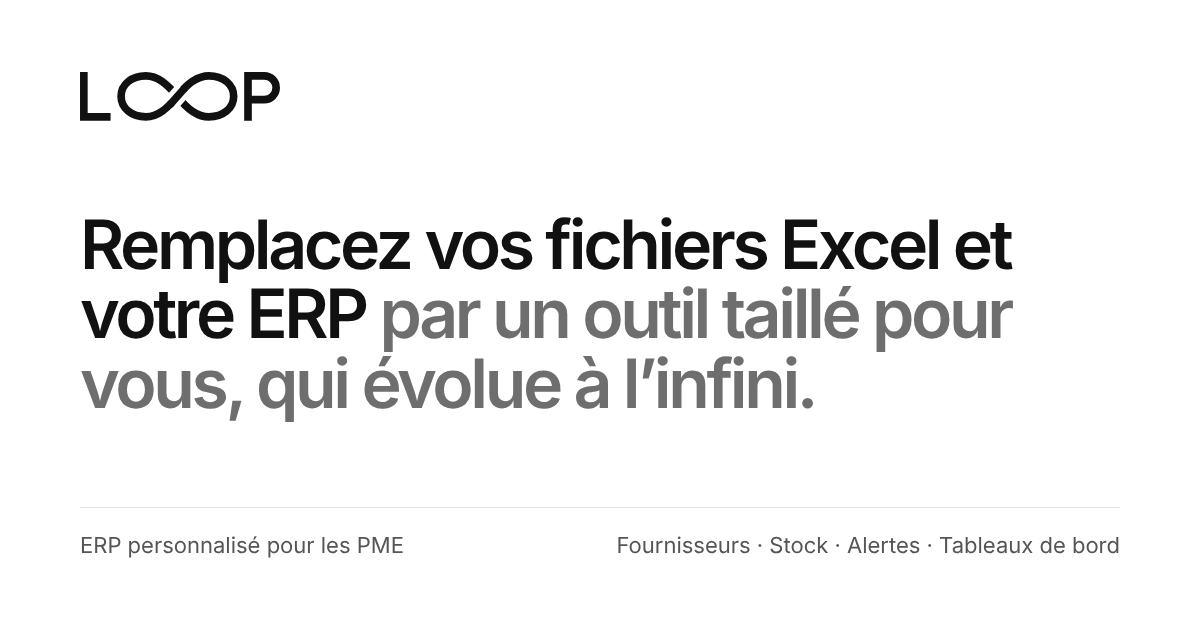
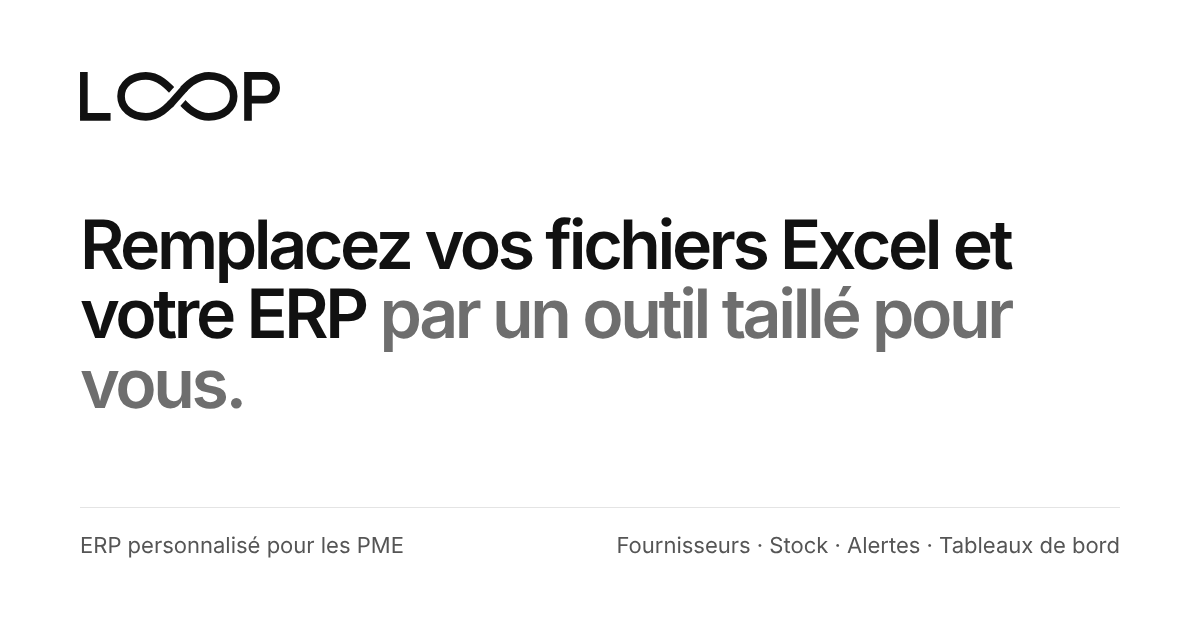
Accroche : « …par un outil taillé pour vous. »
Claude-Session: https://claude.ai/code/session_012kWDKFQMkihcaENsynJKLi

Changed region(s): [[0.185, 0.5429, 0.6783, 0.6635]]

diff --git a/index.html b/index.html
@@ -14,13 +14,13 @@
   <meta property="og:type" content="website">
   <meta property="og:locale" content="fr_FR">
   <meta property="og:site_name" content="LOOP">
-  <meta property="og:title" content="LOOP · Remplacez vos fichiers Excel et votre ERP par un outil taillé pour vous, qui évolue à l’infini">
+  <meta property="og:title" content="LOOP · Remplacez vos fichiers Excel et votre ERP par un outil taillé pour vous">
   <meta property="og:description" content="Fournisseurs, stock, alertes et dépenses par projet au même endroit, sur ordinateur comme sur téléphone.">
   <meta property="og:url" content="https://erp-loop.fr/">
   <meta property="og:image" content="https://erp-loop.fr/assets/img/og-image.png">
   <meta property="og:image:width" content="1200">
   <meta property="og:image:height" content="630">
-  <meta property="og:image:alt" content="Logo LOOP et le message : Remplacez vos fichiers Excel et votre ERP par un outil taillé pour vous, qui évolue à l’infini.">
+  <meta property="og:image:alt" content="Logo LOOP et le message : Remplacez vos fichiers Excel et votre ERP par un outil taillé pour vous.">
   <meta name="twitter:card" content="summary_large_image">
 
   <!-- ========== Icônes ========== -->
@@ -130,7 +130,7 @@
         <div class="hero-text" data-hero-text>
           <h1 class="hero-title" id="titre-accueil">
             <span class="line"><span style="--i:0">Remplacez vos fichiers Excel et votre ERP</span></span>
-            <span class="line line--muted"><span style="--i:1">par un outil taillé pour vous, qui évolue à l’infini.</span></span>
+            <span class="line line--muted"><span style="--i:1">par un outil taillé pour vous.</span></span>
           </h1>
 
           <div class="hero-actions hero-fade" style="--i:2">
